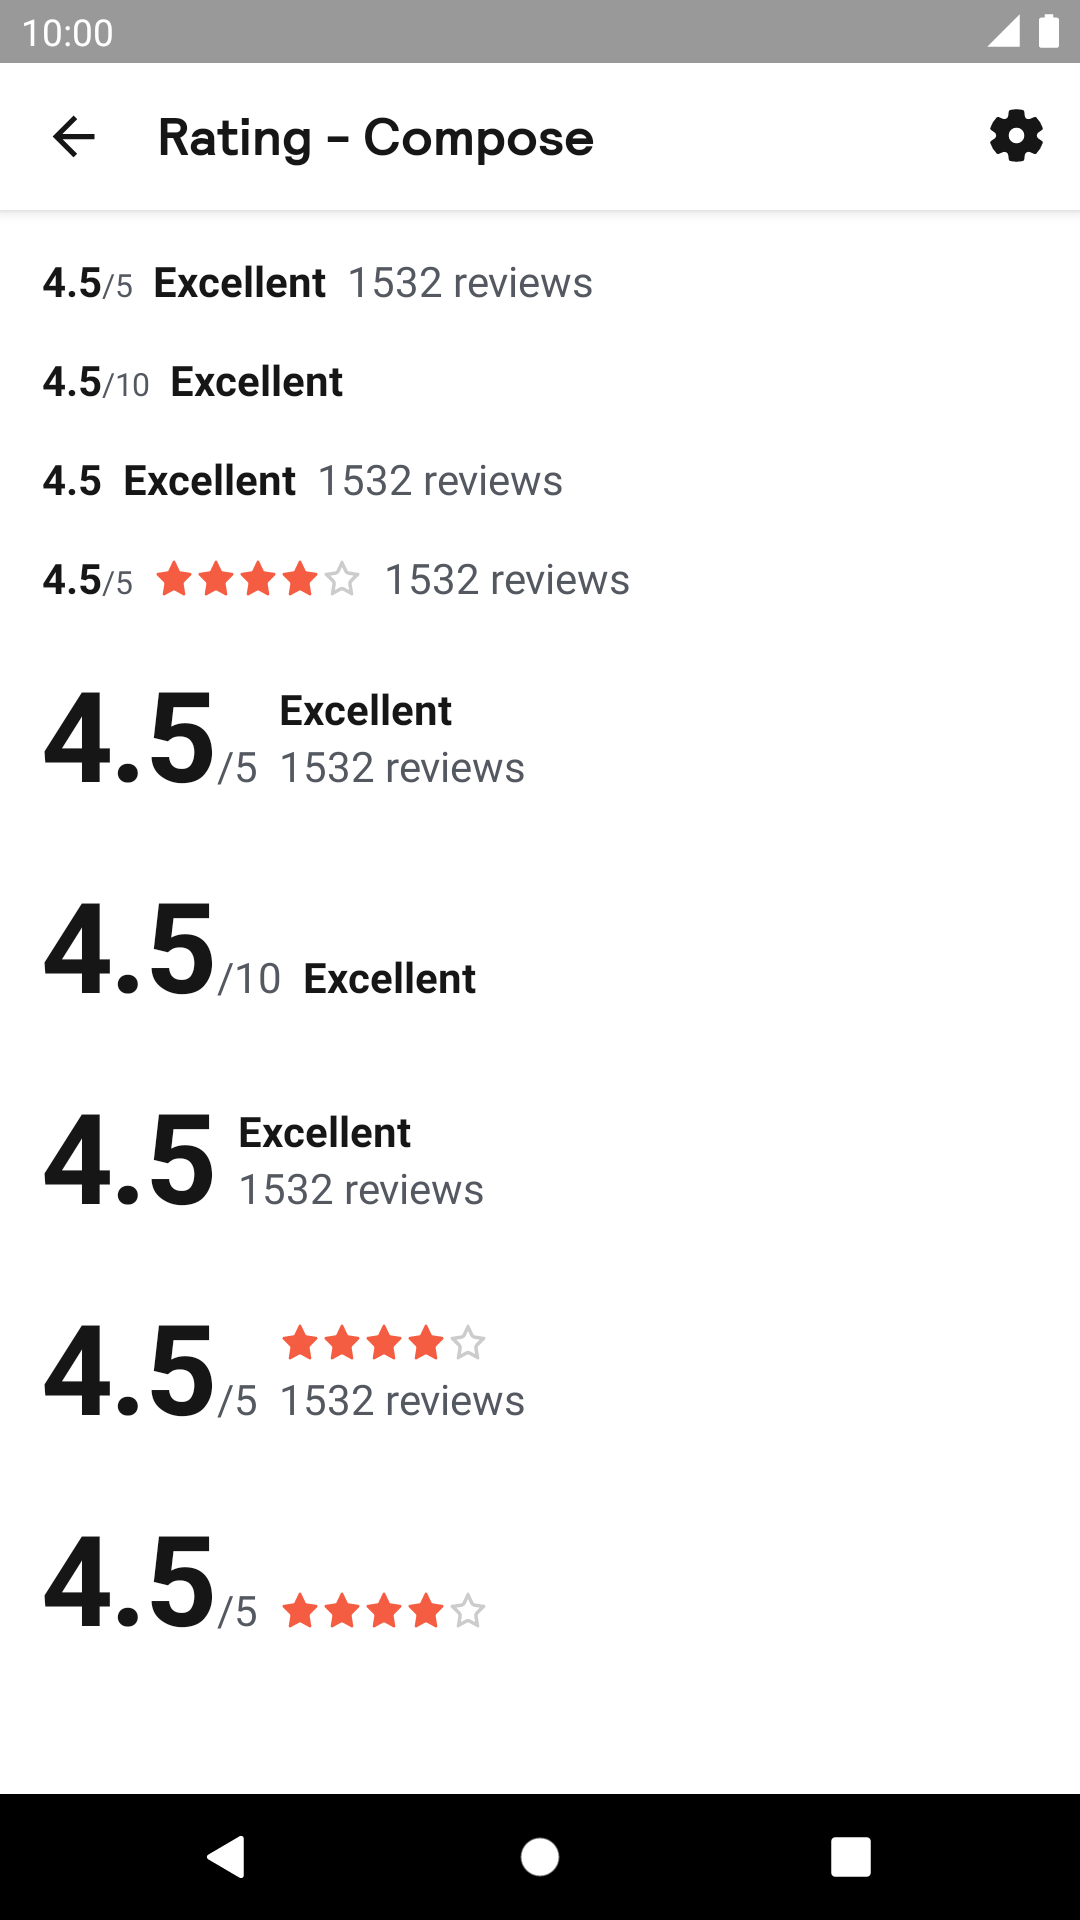
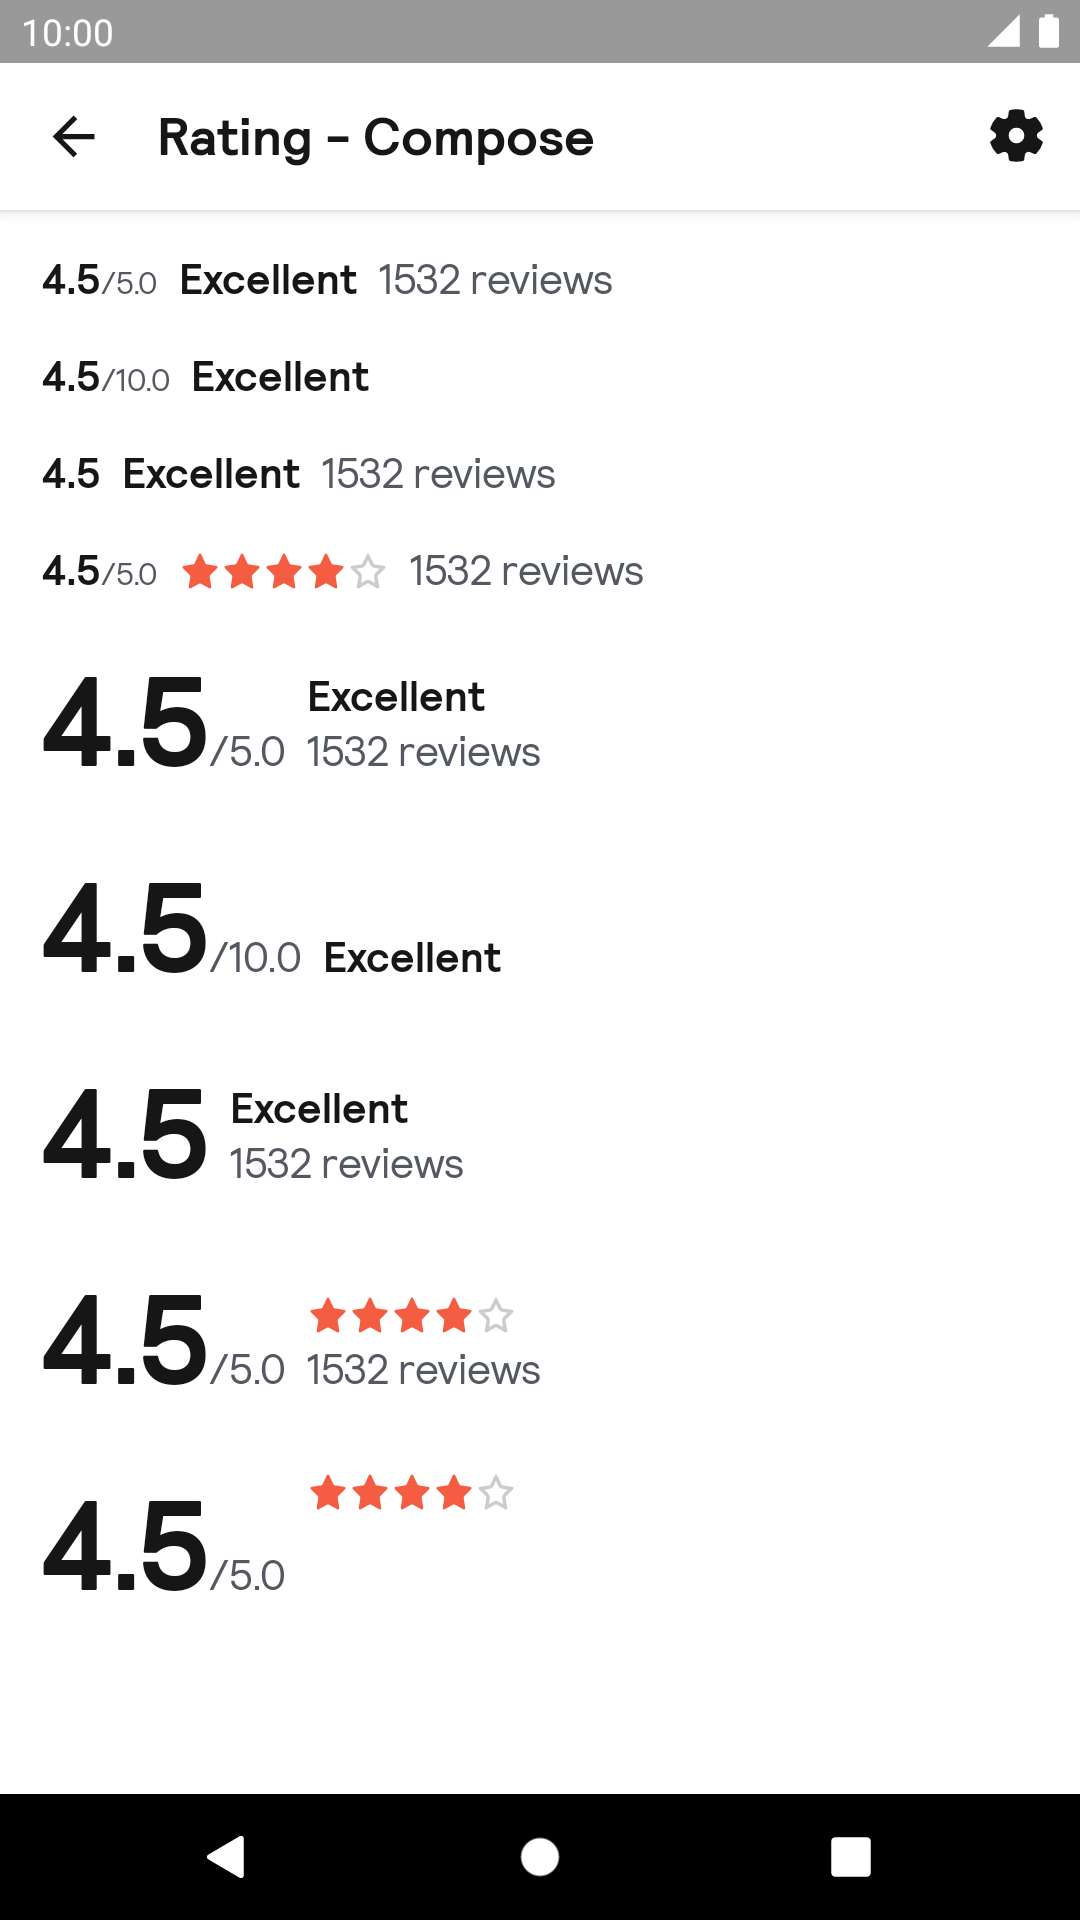
Updated the screenshots.

diff --git a/backpack-compose/src/main/kotlin/net/skyscanner/backpack/compose/rating/internal/BpkRatingComponents.kt b/backpack-compose/src/main/kotlin/net/skyscanner/backpack/compose/rating/internal/BpkRatingComponents.kt
@@ -55,7 +55,7 @@ internal fun BpkRatingNumbers(
 
     BpkText(
       modifier = Modifier.alignByBaseline(),
-      text = numberFormat.format(value),
+      text = formatValue(value, scale, numberFormat),
       style = when (size) {
         BpkRatingSize.Base -> BpkTheme.typography.label1
         BpkRatingSize.Large -> BpkTheme.typography.hero5
@@ -68,10 +68,7 @@ internal fun BpkRatingNumbers(
     if (scale != null) {
       BpkText(
         modifier = Modifier.alignByBaseline(),
-        text = when (scale) {
-          BpkRatingScale.ZeroToFive -> "/5"
-          BpkRatingScale.ZeroToTen -> "/10"
-        },
+        text = "/${scale.range.endInclusive.toInt()}",
         style = when (size) {
           BpkRatingSize.Base -> BpkTheme.typography.caption
           BpkRatingSize.Large -> BpkTheme.typography.bodyDefault
@@ -101,10 +98,12 @@ internal fun BpkRatingTitle(
       contentAlignment = Alignment.CenterStart,
     ) {
       // a little trick to provide baseline params for the custom layouts with invisible text
-  BpkText(text = "", modifier = modifier
-    .alpha(0f)
-    .semantics { invisibleToUser() },
-  )
+      BpkText(
+        text = "",
+        modifier = modifier
+            .alpha(0f)
+            .semantics { invisibleToUser() },
+      )
       content()
     }
   }
@@ -124,3 +123,14 @@ internal fun BpkRatingSubtitle(
     overflow = TextOverflow.Ellipsis,
   )
 }
+
+private fun formatValue(value: Float, scale: BpkRatingScale?, format: DecimalFormat): String {
+  val coerced = if (scale != null) value.coerceIn(scale.range) else value
+  return format.format(coerced)
+}
+
+private val BpkRatingScale.range: ClosedFloatingPointRange<Float>
+  get() = when (this) {
+    BpkRatingScale.ZeroToFive -> 0f..5f
+    BpkRatingScale.ZeroToTen -> 0f..10f
+  }
